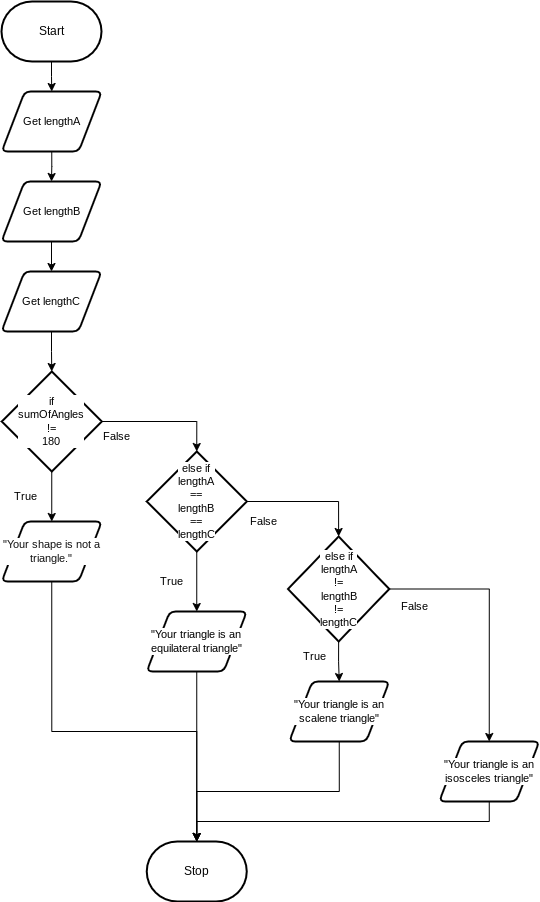
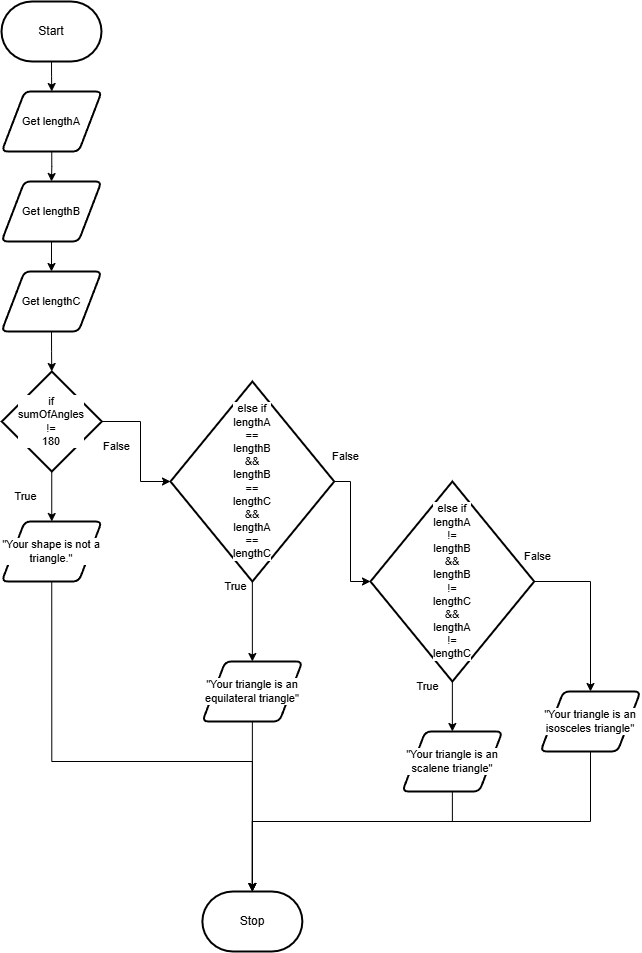
updated program, flowchart, and storyboard

diff --git a/js/script.js b/js/script.js
@@ -10,29 +10,28 @@
  * This function determines the type of triangle.
  */
 function determineTypeOfTriangle() {
-  const lengthA = parseInt(document.getElementById("length-a").value);
-  const lengthB = parseInt(document.getElementById("length-b").value);
-  const lengthC = parseInt(document.getElementById("length-c").value);
-
+  const lengthA = parseInt(document.getElementById("length-a").value)
+  const lengthB = parseInt(document.getElementById("length-b").value)
+  const lengthC = parseInt(document.getElementById("length-c").value)
 
   // using the cosine law
-  const angleA = Math.acos((lengthB ** 2 + lengthC ** 2 - lengthA ** 2) / (2 * lengthB * lengthC)) * (180 / Math.PI);
-  const angleB = Math.acos((lengthC ** 2 + lengthA ** 2 - lengthB ** 2) / (2 * lengthC * lengthA)) * (180 / Math.PI);
-  const angleC = Math.acos((lengthA ** 2 + lengthB ** 2 - lengthC ** 2) / (2 * lengthA * lengthB)) * (180 / Math.PI);
-  const sumOfAngles = Number((angleA).toFixed(2)) + Number((angleB).toFixed(2)) + Number((angleC).toFixed(2));
+  const angleA = Math.acos((lengthB ** 2 + lengthC ** 2 - lengthA ** 2) / (2 * lengthB * lengthC)) * (180 / Math.PI)
+  const angleB = Math.acos((lengthC ** 2 + lengthA ** 2 - lengthB ** 2) / (2 * lengthC * lengthA)) * (180 / Math.PI)
+  const angleC = Math.acos((lengthA ** 2 + lengthB ** 2 - lengthC ** 2) / (2 * lengthA * lengthB)) * (180 / Math.PI)
+  const sumOfAngles = Number((angleA).toFixed(2)) + Number((angleB).toFixed(2)) + Number((angleC).toFixed(2))
 
-  console.log(angleA);
-  console.log(angleB);
-  console.log(angleC);
-  console.log(sumOfAngles);
+  console.log(angleA)
+  console.log(angleB)
+  console.log(angleC)
+  console.log(sumOfAngles)
 
-  if (sumOfAngles != 180 || (lengthA + lengthB <= lengthC || lengthA + lengthC <= lengthB || lengthB + lengthC <= lengthA)) {
-    document.getElementById("result").innerText = "The triangle is not a real triangle.";
+  if (sumOfAngles != 180) {
+    document.getElementById("result").innerText = "The triangle is not a real triangle."
   } else if (lengthA == lengthB && lengthB == lengthC && lengthA == lengthC) {
-    document.getElementById("result").innerText = "The triangle is equilateral.";
+    document.getElementById("result").innerText = "The triangle is equilateral."
   } else if (lengthA != lengthB && lengthB != lengthC && lengthA != lengthC) {
-    document.getElementById("result").innerText = "The triangle is scalene.";
+    document.getElementById("result").innerText = "The triangle is scalene."
   } else {
-    document.getElementById("result").innerText = "The triangle is isosceles.";
+    document.getElementById("result").innerText = "The triangle is isosceles."
   }
 }

diff --git a/css/style.css b/css/style.css
@@ -15,7 +15,7 @@
 }
 
 .mdl-textfield__error {
-  color: #FF0000;
+  color: #F00;
 }
 
 .mdl-textfield--floating-label.is-focused .mdl-textfield__label,
@@ -25,7 +25,7 @@
 }
 
 .page-content {
-  color: #000000;
+  color: #000;
   font-family: "Times New Roman", Times, monospace;
   font-size: 1.25rem;
 }
